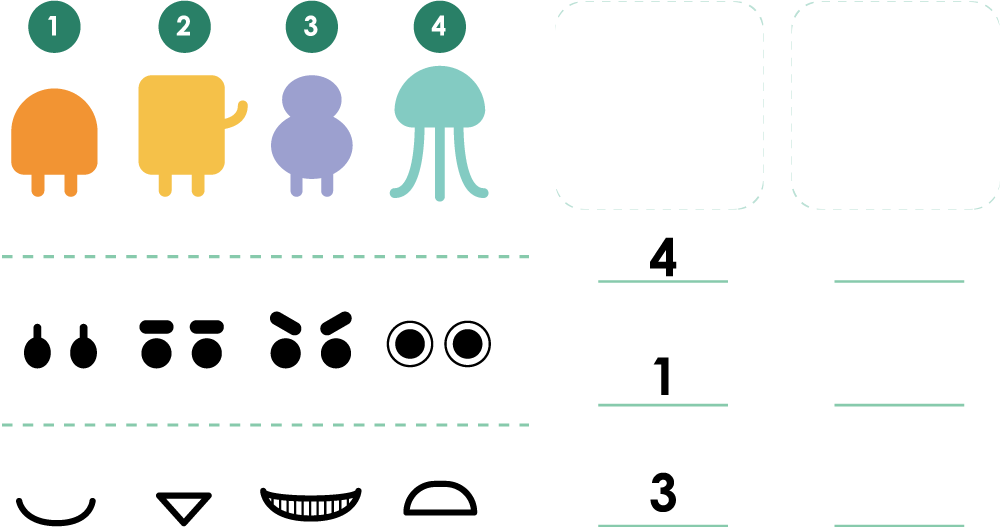
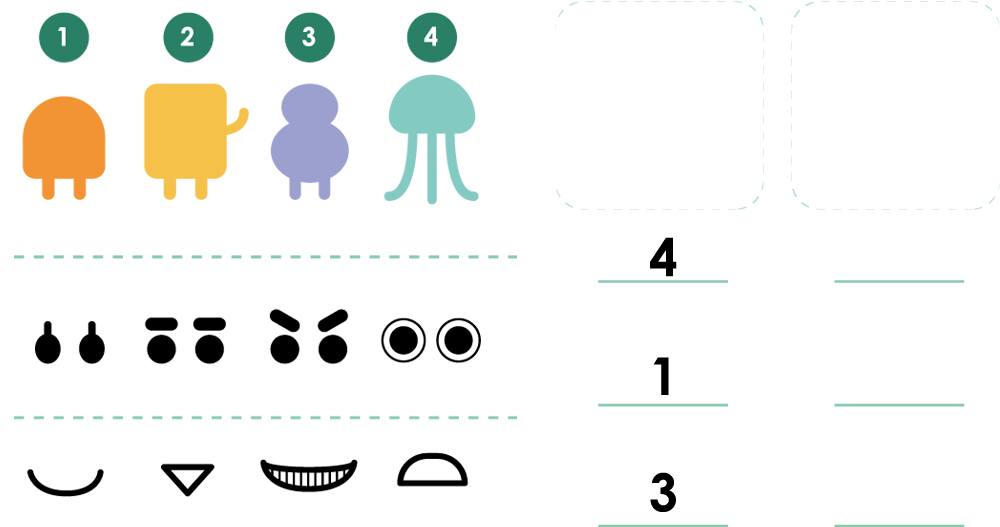
book 8

diff --git a/web/DATA/PT/BOOK8/HTML/PT-8-4-1.html b/web/DATA/PT/BOOK8/HTML/PT-8-4-1.html
@@ -19,135 +19,75 @@
             <b>山海經夥伴</b
             >：透過點選各個身體部位組成自己的怪獸後，選出正確的身體部位數字。
           </p>
-          <img src="./DATA/PT/BOOK8/IMAGES/PT-8-3-3-4-1-intro.png" />
+          <img src="./DATA/PT/BOOK8/IMAGES/PT-8-4-1-1-2-intro.png" />
           <span class="cta" onClick="switchIntro()">START</span>
         </div>
       </div>
-      <div class="puzzle" style="max-width: 250px">
+      <div class="puzzle" style="max-width: 250px; transform: scale(1.5)">
         <div class="subject">
           <div class="sensors" sticker_area="s1">
             <span
-              style="width: 23px; height: 30px; top: 20px; left: 15px"
+              style="width: 23px; height: 30px; top: 17px; left: 3px"
               sticker="./DATA/PT/BOOK8/IMAGES/b1.png"
               onClick="pasteSticker($(this))"
             />
             <span
-              style="width: 23px; height: 30px; top: 20px; left: 45px"
+              style="width: 23px; height: 30px; top: 17px; left: 33px"
               sticker="./DATA/PT/BOOK8/IMAGES/b2.png"
               onClick="pasteSticker($(this))"
             />
             <span
-              style="width: 23px; height: 30px; top: 20px; left: 73px"
+              style="width: 23px; height: 30px; top: 17px; left: 67px"
               sticker="./DATA/PT/BOOK8/IMAGES/b3.png"
               onClick="pasteSticker($(this))"
             />
             <span
-              style="width: 23px; height: 30px; top: 20px; left: 101px"
+              style="width: 23px; height: 30px; top: 17px; left: 99px"
               sticker="./DATA/PT/BOOK8/IMAGES/b4.png"
-              onClick="pasteSticker($(this))"
-            />
-            <span
-              style="width: 23px; height: 30px; top: 15px; left: 129px"
-              sticker="./DATA/PT/BOOK8/IMAGES/b5.png"
-              onClick="pasteSticker($(this))"
-            />
-            <span
-              style="width: 23px; height: 30px; top: 20px; left: 157px"
-              sticker="./DATA/PT/BOOK8/IMAGES/b6.png"
-              onClick="pasteSticker($(this))"
-            />
-            <span
-              style="width: 23px; height: 30px; top: 20px; left: 186px"
-              sticker="./DATA/PT/BOOK8/IMAGES/b7.png"
-              onClick="pasteSticker($(this))"
-            />
-            <span
-              style="width: 23px; height: 30px; top: 20px; left: 212px"
-              sticker="./DATA/PT/BOOK8/IMAGES/b8.png"
               onClick="pasteSticker($(this))"
             />
           </div>
           <div class="sensors" sticker_area="s2">
             <span
-              style="width: 23px; height: 30px; top: 57px; left: 15px"
+              style="width: 23px; height: 30px; top: 70px; left: 3px"
               sticker="./DATA/PT/BOOK8/IMAGES/e1.png"
               onClick="pasteSticker($(this))"
             />
             <span
-              style="width: 23px; height: 30px; top: 57px; left: 45px"
+              style="width: 23px; height: 30px; top: 70px; left: 33px"
               sticker="./DATA/PT/BOOK8/IMAGES/e2.png"
               onClick="pasteSticker($(this))"
             />
             <span
-              style="width: 23px; height: 30px; top: 57px; left: 73px"
+              style="width: 23px; height: 30px; top: 70px; left: 67px"
               sticker="./DATA/PT/BOOK8/IMAGES/e3.png"
               onClick="pasteSticker($(this))"
             />
             <span
-              style="width: 23px; height: 30px; top: 57px; left: 101px"
+              style="width: 23px; height: 30px; top: 70px; left: 99px"
               sticker="./DATA/PT/BOOK8/IMAGES/e4.png"
-              onClick="pasteSticker($(this))"
-            />
-            <span
-              style="width: 23px; height: 30px; top: 57px; left: 129px"
-              sticker="./DATA/PT/BOOK8/IMAGES/e5.png"
-              onClick="pasteSticker($(this))"
-            />
-            <span
-              style="width: 23px; height: 30px; top: 57px; left: 157px"
-              sticker="./DATA/PT/BOOK8/IMAGES/e6.png"
-              onClick="pasteSticker($(this))"
-            />
-            <span
-              style="width: 23px; height: 30px; top: 57px; left: 186px"
-              sticker="./DATA/PT/BOOK8/IMAGES/e7.png"
-              onClick="pasteSticker($(this))"
-            />
-            <span
-              style="width: 23px; height: 30px; top: 57px; left: 212px"
-              sticker="./DATA/PT/BOOK8/IMAGES/e8.png"
               onClick="pasteSticker($(this))"
             />
           </div>
           <div class="sensors" sticker_area="s3">
             <span
-              style="width: 23px; height: 30px; top: 89px; left: 15px"
+              style="width: 23px; height: 30px; top: 109px; left: 3px"
               sticker="./DATA/PT/BOOK8/IMAGES/m1.png"
               onClick="pasteSticker($(this))"
             />
             <span
-              style="width: 23px; height: 30px; top: 89px; left: 45px"
+              style="width: 23px; height: 30px; top: 109px; left: 33px"
               sticker="./DATA/PT/BOOK8/IMAGES/m2.png"
               onClick="pasteSticker($(this))"
             />
             <span
-              style="width: 23px; height: 30px; top: 89px; left: 73px"
+              style="width: 23px; height: 30px; top: 109px; left: 67px"
               sticker="./DATA/PT/BOOK8/IMAGES/m3.png"
               onClick="pasteSticker($(this))"
             />
             <span
-              style="width: 23px; height: 30px; top: 89px; left: 101px"
+              style="width: 23px; height: 30px; top: 109px; left: 99px"
               sticker="./DATA/PT/BOOK8/IMAGES/m4.png"
-              onClick="pasteSticker($(this))"
-            />
-            <span
-              style="width: 23px; height: 30px; top: 89px; left: 129px"
-              sticker="./DATA/PT/BOOK8/IMAGES/m5.png"
-              onClick="pasteSticker($(this))"
-            />
-            <span
-              style="width: 23px; height: 30px; top: 89px; left: 157px"
-              sticker="./DATA/PT/BOOK8/IMAGES/m6.png"
-              onClick="pasteSticker($(this))"
-            />
-            <span
-              style="width: 23px; height: 30px; top: 89px; left: 186px"
-              sticker="./DATA/PT/BOOK8/IMAGES/m7.png"
-              onClick="pasteSticker($(this))"
-            />
-            <span
-              style="width: 23px; height: 30px; top: 89px; left: 212px"
-              sticker="./DATA/PT/BOOK8/IMAGES/m8.png"
               onClick="pasteSticker($(this))"
             />
           </div>
@@ -156,7 +96,7 @@
               style="
                 width: 50px;
                 height: 50px;
-                top: 140px;
+                top: 2px;
                 left: 140px;
                 pointer-events: auto;
               "
@@ -167,7 +107,7 @@
               style="
                 width: 21px;
                 height: 16px;
-                top: 151px;
+                top: 13px;
                 left: 155px;
                 pointer-events: auto;
               "
@@ -178,7 +118,7 @@
               style="
                 width: 21px;
                 height: 11px;
-                top: 162px;
+                top: 24px;
                 left: 155px;
                 pointer-events: auto;
               "
@@ -191,7 +131,7 @@
               style="
                 width: 50px;
                 height: 50px;
-                top: 140px;
+                top: 2px;
                 left: 199px;
                 pointer-events: auto;
               "
@@ -201,7 +141,7 @@
               style="
                 width: 21px;
                 height: 16px;
-                top: 151px;
+                top: 13px;
                 left: 214px;
                 pointer-events: auto;
               "
@@ -211,7 +151,7 @@
               style="
                 width: 21px;
                 height: 11px;
-                top: 162px;
+                top: 24px;
                 left: 214px;
                 pointer-events: auto;
               "
@@ -221,7 +161,7 @@
           <div class="counters">
             <span
               style="
-                top: 193px;
+                top: 54px;
                 left: 200px;
                 height: 20px;
                 border: none;
@@ -229,13 +169,13 @@
                 font-size: 14px;
                 background: none;
               "
-              onClick="addup($(this),8)"
+              onClick="addup($(this),4)"
               aim="s4"
               >?</span
             >
             <span
               style="
-                top: 223px;
+                top: 85px;
                 left: 200px;
                 height: 20px;
                 border: none;
@@ -243,13 +183,13 @@
                 font-size: 14px;
                 background: none;
               "
-              onClick="addup($(this),8)"
+              onClick="addup($(this),4)"
               aim="s5"
               >?</span
             >
             <span
               style="
-                top: 252px;
+                top: 114px;
                 left: 200px;
                 height: 20px;
                 border: none;
@@ -257,20 +197,15 @@
                 font-size: 14px;
                 background: none;
               "
-              onClick="addup($(this),8)"
+              onClick="addup($(this),4)"
               aim="s6"
               >?</span
             >
           </div>
+
           <img
             height="auto"
             width="100%"
-            src="./DATA/PT/BOOK8/IMAGES/PT-8-3-3-4-1.png"
-          />
-          <img
-            height="auto"
-            width="100%"
-            style="margin-top: 20px"
             src="./DATA/PT/BOOK8/IMAGES/PT-8-4-1-1-2.png"
           />
         </div>

diff --git a/web/DATA/PT/BOOK8/HTML/PT-8-4-3-2.html b/web/DATA/PT/BOOK8/HTML/PT-8-4-3-2.html
@@ -81,7 +81,7 @@
 
     <!-- 任務一 -->
     <div>
-      <div class="intro">
+      <div class="intro" style="display: none">
         <div>
           <h3>How to play?</h3>
           <p>
@@ -146,7 +146,7 @@
 
     <!-- 任務二 -->
     <div>
-      <div class="intro">
+      <div class="intro" style="display: none">
         <div>
           <h3>How to play?</h3>
           <p>
@@ -224,7 +224,7 @@
 
     <!-- 任務三 -->
     <div>
-      <div class="intro">
+      <div class="intro" style="display: none">
         <div>
           <h3>How to play?</h3>
           <p>
@@ -304,7 +304,7 @@
 
     <!-- 任務四-->
     <div>
-      <div class="intro">
+      <div class="intro" style="display: none">
         <div>
           <h3>How to play?</h3>
           <p>
